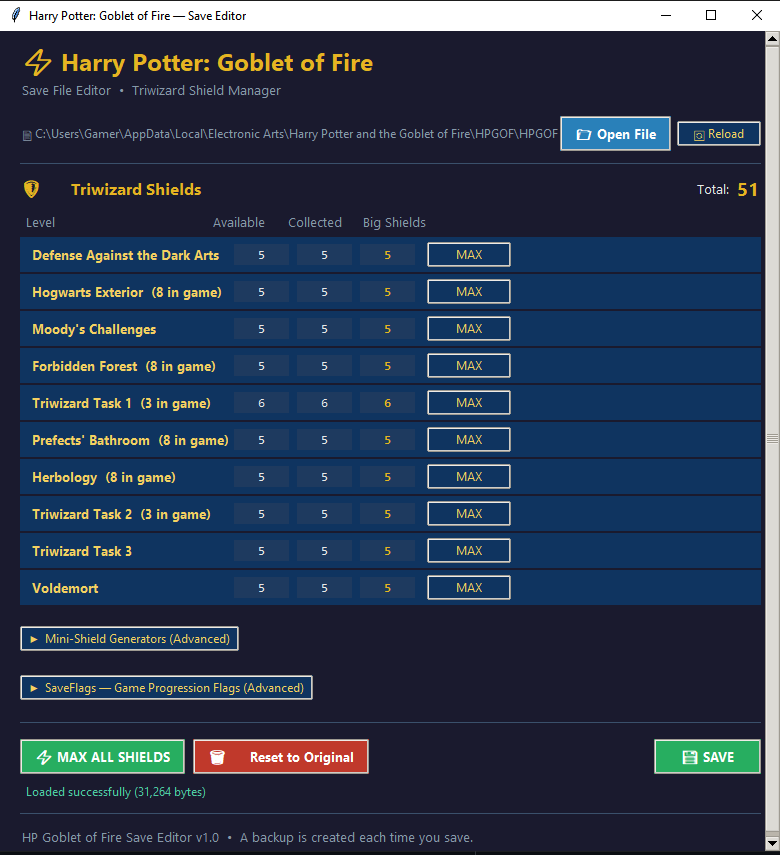
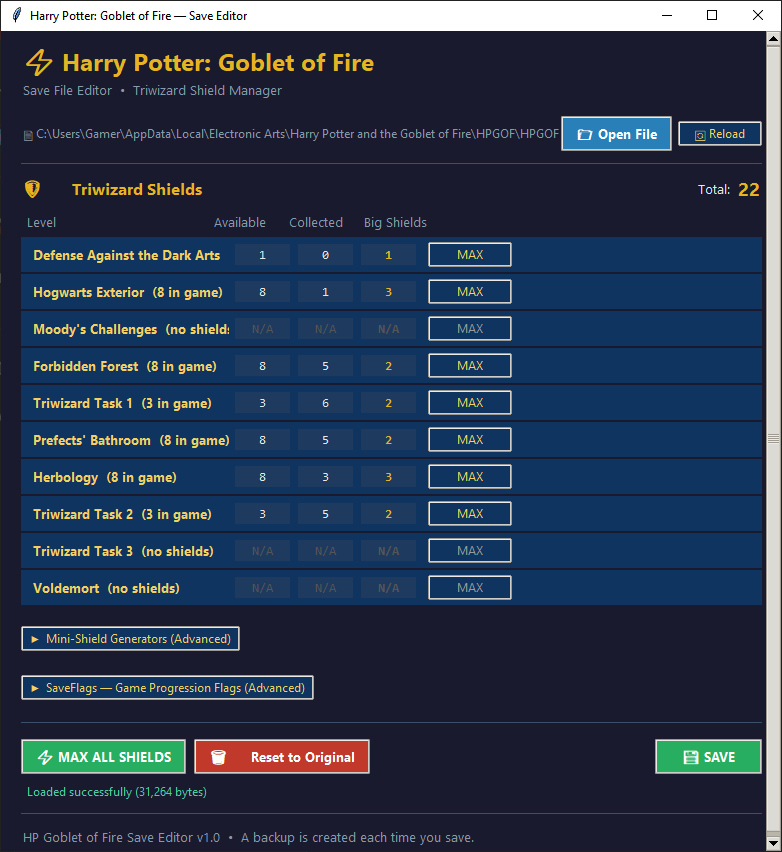
Fix shield counts: use guide data, grey out no-shield levels

diff --git a/hpgof_save_editor.py b/hpgof_save_editor.py
@@ -378,33 +378,42 @@ class SaveEditorApp:
 
         # Level rows
         self.level_vars = []
+        self.level_widgets = []  # (avail_entry, coll_entry, big_entry, max_btn)
         for i, name in enumerate(LEVEL_NAMES):
             row_frame = tk.Frame(container, bg=COLORS["bg_card"], pady=5, padx=10)
             row_frame.pack(fill="x", pady=1)
 
             guide_count = GUIDE_SHIELDS[i]
+            no_shields = guide_count == 0
             name_text = f"{name}"
             if guide_count > 0:
                 name_text += f"  ({guide_count} in game)"
+            else:
+                name_text += "  (no shields)"
 
-            ttk.Label(row_frame, text=name_text, style="CardBold.TLabel", width=28).pack(side="left")
+            lbl = ttk.Label(row_frame, text=name_text, style="CardBold.TLabel", width=28)
+            lbl.pack(side="left")
 
             avail_var = tk.StringVar(value="—")
             coll_var = tk.StringVar(value="—")
             big_var = tk.StringVar(value="—")
 
+            disabled_fg = "#555555"
+            entry_fg = disabled_fg if no_shields else COLORS["text"]
+            gold_fg = disabled_fg if no_shields else COLORS["accent_gold"]
+
             avail_entry = tk.Entry(row_frame, textvariable=avail_var, width=7, justify="center",
-                                   bg=COLORS["entry_bg"], fg=COLORS["text"], font=("Consolas", 10),
+                                   bg=COLORS["entry_bg"], fg=entry_fg, font=("Consolas", 10),
                                    insertbackground=COLORS["text"], relief="flat", bd=2)
             avail_entry.pack(side="left", padx=4)
 
             coll_entry = tk.Entry(row_frame, textvariable=coll_var, width=7, justify="center",
-                                  bg=COLORS["entry_bg"], fg=COLORS["text"], font=("Consolas", 10),
+                                  bg=COLORS["entry_bg"], fg=entry_fg, font=("Consolas", 10),
                                   insertbackground=COLORS["text"], relief="flat", bd=2)
             coll_entry.pack(side="left", padx=4)
 
             big_entry = tk.Entry(row_frame, textvariable=big_var, width=7, justify="center",
-                                 bg=COLORS["entry_bg"], fg=COLORS["accent_gold"], font=("Consolas", 10, "bold"),
+                                 bg=COLORS["entry_bg"], fg=gold_fg, font=("Consolas", 10, "bold"),
                                  insertbackground=COLORS["text"], relief="flat", bd=2)
             big_entry.pack(side="left", padx=4)
 
@@ -413,7 +422,14 @@ class SaveEditorApp:
                                  command=lambda idx=i: self._max_level(idx))
             max_btn.pack(side="left", padx=8)
 
+            if no_shields:
+                for entry in (avail_entry, coll_entry, big_entry):
+                    entry.configure(state="disabled", disabledbackground=COLORS["entry_bg"],
+                                    disabledforeground=disabled_fg)
+                max_btn.configure(state="disabled")
+
             self.level_vars.append((avail_var, coll_var, big_var))
+            self.level_widgets.append((avail_entry, coll_entry, big_entry, max_btn))
 
     def _build_set1_section(self):
         container = tk.Frame(self.scroll_frame, bg=COLORS["bg_dark"], pady=6)
@@ -450,21 +466,33 @@ class SaveEditorApp:
             row_frame = tk.Frame(self.set1_frame, bg=COLORS["bg_mid"], pady=4, padx=10)
             row_frame.pack(fill="x", pady=1)
 
-            ttk.Label(row_frame, text=name, style="MidBold.TLabel", width=24).pack(side="left")
+            no_shields = GUIDE_SHIELDS[i] == 0
+            label_text = name if not no_shields else f"{name}  (no shields)"
+            ttk.Label(row_frame, text=label_text, style="MidBold.TLabel", width=24).pack(side="left")
 
             avail_var = tk.StringVar(value="—")
             coll_var = tk.StringVar(value="—")
             big_var = tk.StringVar(value="—")
 
+            disabled_fg = "#555555"
+            entries = []
             for var in [avail_var, coll_var, big_var]:
+                fg = disabled_fg if no_shields else COLORS["text"]
                 e = tk.Entry(row_frame, textvariable=var, width=7, justify="center",
-                             bg=COLORS["entry_bg"], fg=COLORS["text"], font=("Consolas", 10),
+                             bg=COLORS["entry_bg"], fg=fg, font=("Consolas", 10),
                              insertbackground=COLORS["text"], relief="flat", bd=2)
                 e.pack(side="left", padx=4)
+                entries.append(e)
 
             max_btn = ttk.Button(row_frame, text="MAX", style="Small.TButton",
                                  command=lambda idx=i: self._max_set1(idx))
             max_btn.pack(side="left", padx=8)
+
+            if no_shields:
+                for e in entries:
+                    e.configure(state="disabled", disabledbackground=COLORS["entry_bg"],
+                                disabledforeground=disabled_fg)
+                max_btn.configure(state="disabled")
 
             self.set1_vars.append((avail_var, coll_var, big_var))
 
@@ -592,28 +620,38 @@ class SaveEditorApp:
         # Levels (set 2)
         total = 0
         for i, (avail_off, coll_off, big_off) in enumerate(LEVEL_GROUPS):
-            avail = read_u32(data, avail_off)
+            avail = GUIDE_SHIELDS[i]
             coll = read_u32(data, coll_off)
             big = read_u32(data, big_off)
             total += big
 
             av, cv, bv = self.level_vars[i]
-            av.set(str(avail))
-            cv.set(str(coll))
-            bv.set(str(big))
+            if avail == 0:
+                av.set("N/A")
+                cv.set("N/A")
+                bv.set("N/A")
+            else:
+                av.set(str(avail))
+                cv.set(str(coll))
+                bv.set(str(big))
 
         self.total_var.set(str(total))
 
         # Set 1
         for i, (avail_off, coll_off, big_off) in enumerate(FIRST_SET_GROUPS):
-            avail = read_u32(data, avail_off)
+            avail = GUIDE_SHIELDS[i]
             coll = read_u32(data, coll_off)
             big = read_u32(data, big_off)
 
             av, cv, bv = self.set1_vars[i]
-            av.set(str(avail))
-            cv.set(str(coll))
-            bv.set(str(big))
+            if avail == 0:
+                av.set("N/A")
+                cv.set("N/A")
+                bv.set("N/A")
+            else:
+                av.set(str(avail))
+                cv.set(str(coll))
+                bv.set(str(big))
 
         # Flags
         for i, off in enumerate(SAVEFLAGS_OFFSETS):
@@ -634,6 +672,11 @@ class SaveEditorApp:
 
         # Levels (set 2)
         for i, (avail_off, coll_off, big_off) in enumerate(LEVEL_GROUPS):
+            if GUIDE_SHIELDS[i] == 0:
+                write_u32(data, avail_off, 0)
+                write_u32(data, coll_off, 0)
+                write_u32(data, big_off, 0)
+                continue
             try:
                 avail = int(self.level_vars[i][0].get())
                 coll = int(self.level_vars[i][1].get())
@@ -649,6 +692,11 @@ class SaveEditorApp:
 
         # Set 1
         for i, (avail_off, coll_off, big_off) in enumerate(FIRST_SET_GROUPS):
+            if GUIDE_SHIELDS[i] == 0:
+                write_u32(data, avail_off, 0)
+                write_u32(data, coll_off, 0)
+                write_u32(data, big_off, 0)
+                continue
             try:
                 avail = int(self.set1_vars[i][0].get())
                 coll = int(self.set1_vars[i][1].get())
@@ -707,23 +755,19 @@ class SaveEditorApp:
     # ── Quick actions ──
 
     def _max_level(self, idx):
-        """Set a single level row to max."""
+        """Set a single level row to max using known correct shield counts."""
         avail_var, coll_var, big_var = self.level_vars[idx]
-        try:
-            avail = int(avail_var.get())
-        except ValueError:
-            avail = 5
-        coll_var.set(str(avail))
-        big_var.set(str(avail))
+        correct = GUIDE_SHIELDS[idx]
+        avail_var.set(str(correct))
+        coll_var.set(str(correct))
+        big_var.set(str(correct))
         self._update_total_display()
 
     def _max_set1(self, idx):
         avail_var, coll_var, big_var = self.set1_vars[idx]
-        try:
-            avail = int(avail_var.get())
-        except ValueError:
-            avail = 5
-        coll_var.set(str(avail))
+        correct = GUIDE_SHIELDS[idx]
+        avail_var.set(str(correct))
+        coll_var.set(str(correct))
 
     def _max_all(self):
         """Maximize everything."""
